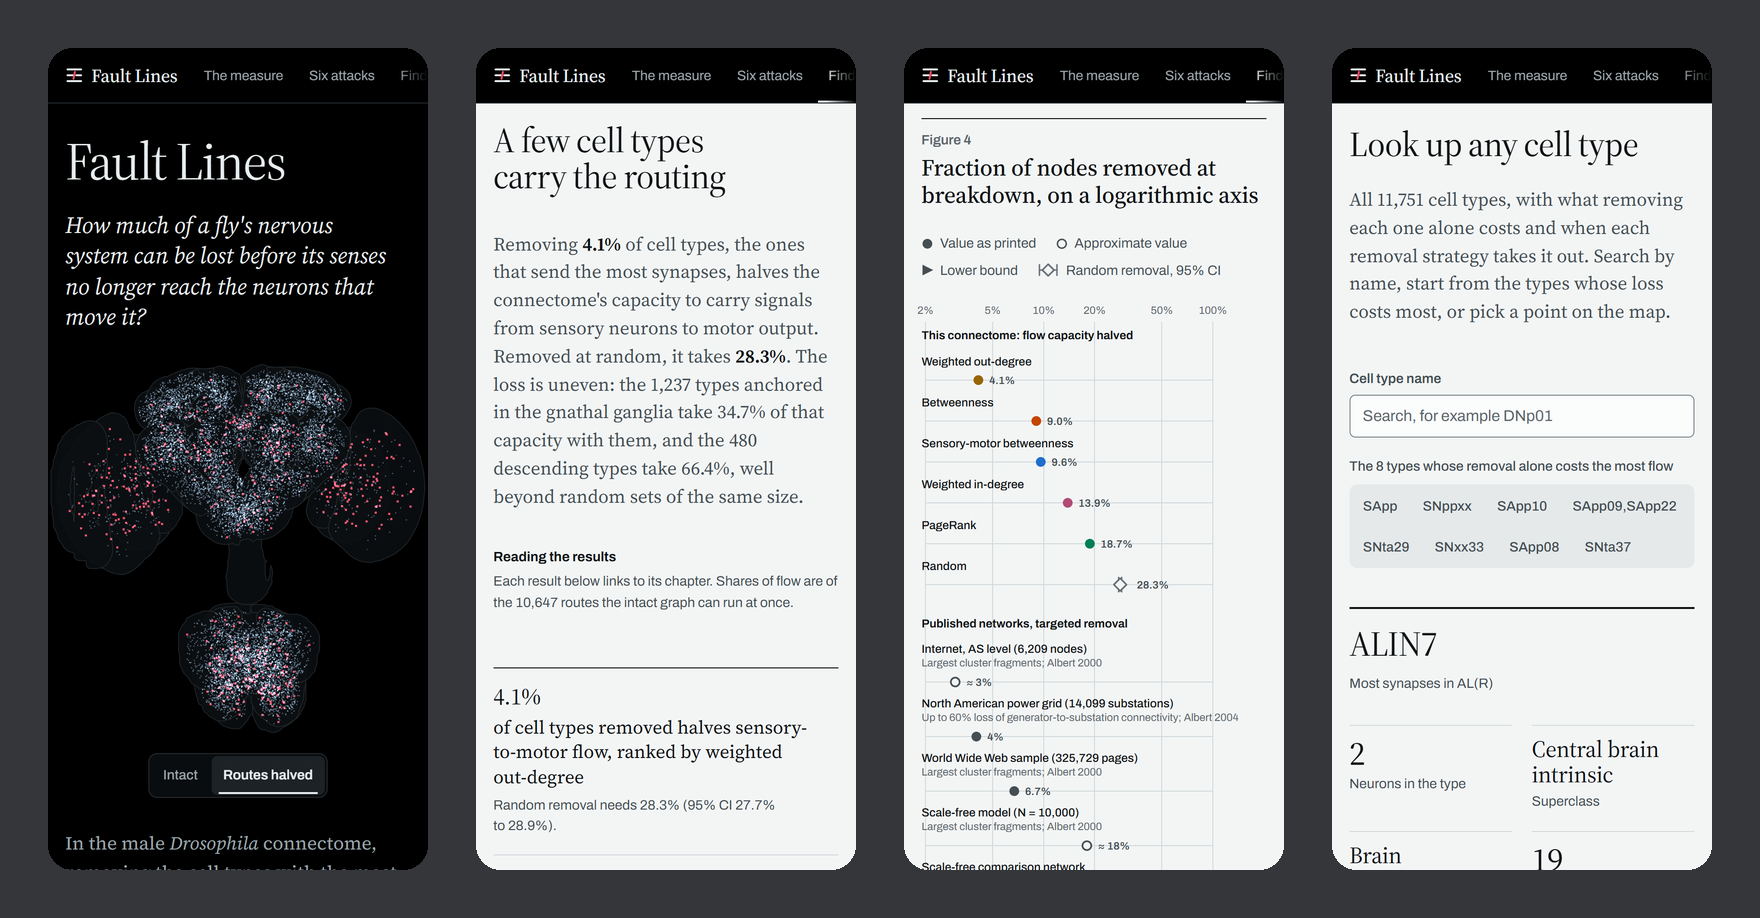
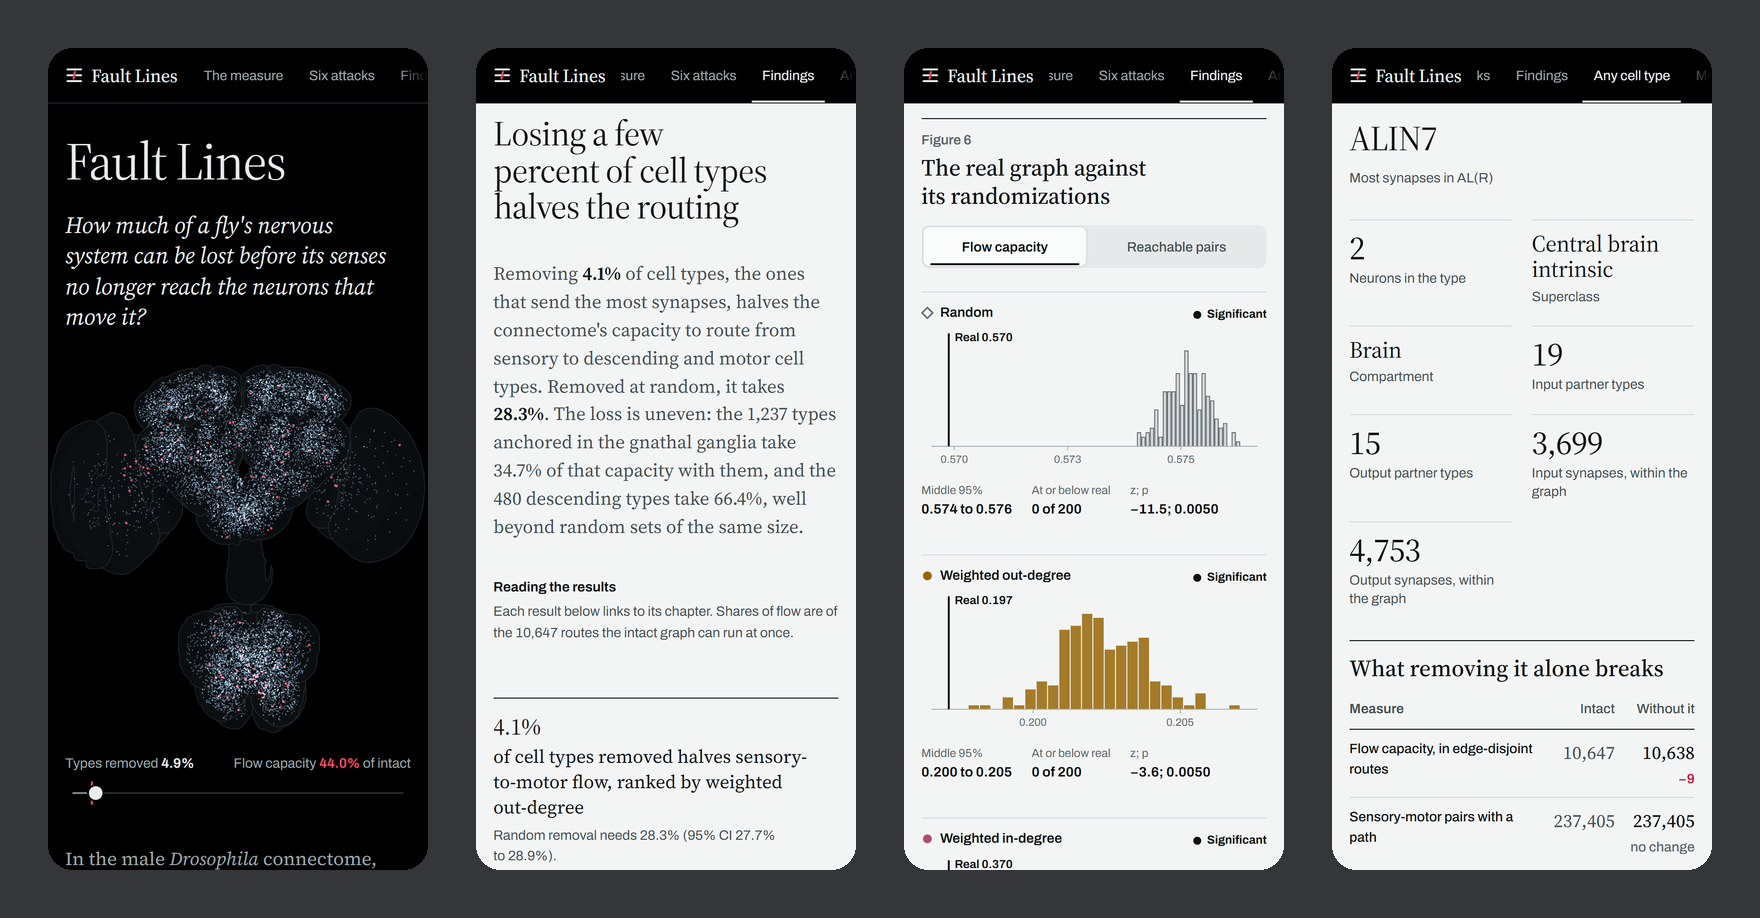
Re-record the phone strip with the null model result

diff --git a/pipeline/site_captures.py b/pipeline/site_captures.py
@@ -468,13 +468,13 @@ def record_lookup(tab: Tab, folder: Path, site: str, name: str = "ALIN7") -> Non
 PHONE_SCREENS = (
     ("hero", "#", None, 0),
     ("findings", "#findings", "#findings-title", 76),
-    ("chart", "#thresholds", "#thresholds .figure", 72),
-    ("lookup", "#lookup/ALIN7", "#lookup-title", 80),
+    ("nulls", "#null-model", "#null-model .figure:last-of-type", 72),
+    ("lookup", "#lookup/ALIN7", "#lookup .fc-profile", 55),
 )
 
 
 def record_phones(tab: Tab, folder: Path, site: str) -> None:
-    """Four screens at phone width: the opening, the key results, a findings chart and a cell type profile."""
+    """Four screens at phone width: the opening, the key results, the null-model histograms and a cell type profile."""
     tab.resize(*PHONE, mobile=True)
     tab.open(site, "document.getElementById('findings')")
     shots = []
@@ -482,6 +482,8 @@ def record_phones(tab: Tab, folder: Path, site: str) -> None:
         tab.evaluate(f"(() => {{ location.hash = {json.dumps(anchor)}; return true; }})()")
         time.sleep(1.2)
         if selector:
+            # Charts and maps settle after the jump, which moves the target, so the offset is taken again.
+            tab.scroll_to(selector, offset)
             tab.scroll_to(selector, offset)
         else:
             tab.evaluate("window.scrollTo({top: 0, behavior: 'instant'}) || true")

diff --git a/README.md b/README.md
@@ -356,7 +356,7 @@ The live site is an illustrated version of everything above, with every removal 
 - **[Findings](https://dhruvin-sarkar.github.io/fault-lines/#findings):** one block per result, each with an interactive figure: thresholds, disconnection, regions, superclasses, connections, brain and nerve cord, avalanches, structure, pairs, bilateral redundancy and the hidden bottleneck.
 - **[Methods and limits](https://dhruvin-sarkar.github.io/fault-lines/#methods):** the data, graph construction, sensory and motor sets, measures, removal protocol, validation, limitations and how to reproduce every number.
 
-<p><a href="https://dhruvin-sarkar.github.io/fault-lines/"><img src="assets/readme/site-phone-strip.png" width="880" alt="Four screens of the live site at phone width: the opening with its map of the nervous system, the key findings, the chart comparing breakdown thresholds with published networks, and the profile of the cell type ALIN7."></a><br><sub>The opening, the key findings, the threshold comparison and a cell type profile at phone width.</sub></p>
+<p><a href="https://dhruvin-sarkar.github.io/fault-lines/"><img src="assets/readme/site-phone-strip.png" width="880" alt="Four screens of the live site at phone width. The opening carries the title and the question over a map of the nervous system, one point per cell type, with a slider reading 4.9% of types removed and 44.0% of flow capacity left. The findings screen leads with the result that losing a few percent of cell types halves the routing, and the first key result, 4.1%, below it. The null-model screen sets the real graph against its randomizations: histograms of the 200 degree-preserving randomized graphs under random and weighted out-degree removal, each with a line at the real graph's score far outside the randomized range and marked significant. The last screen is the profile of the cell type ALIN7, with its counts and a table of what removing it alone breaks, 9 of 10,647 routes and no sensory-motor pair."></a><br><sub>The opening, the key results, the null model and a cell type profile at phone width.</sub></p>
 
 ## Methods
 
